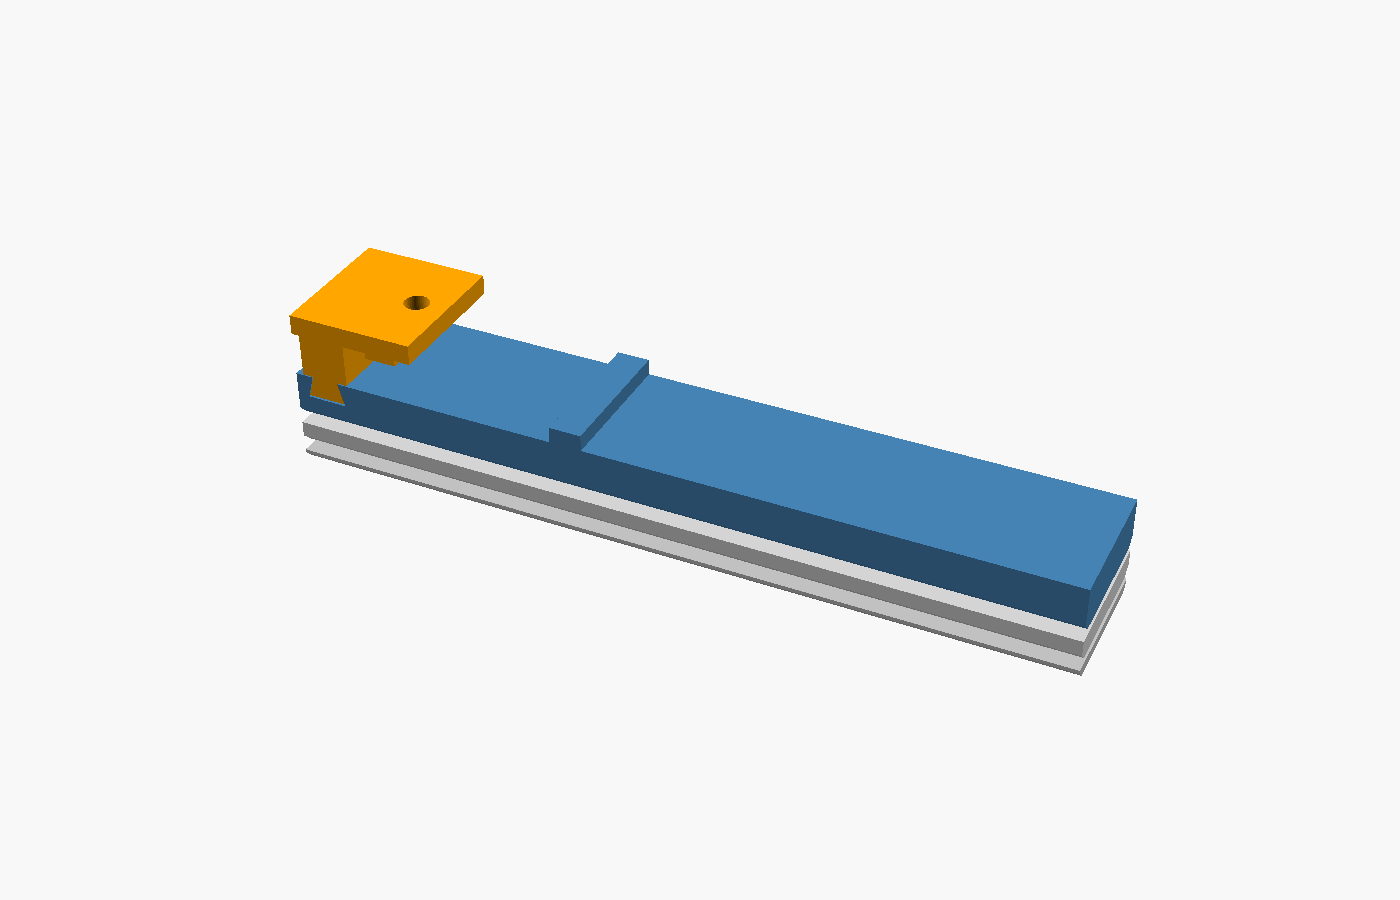
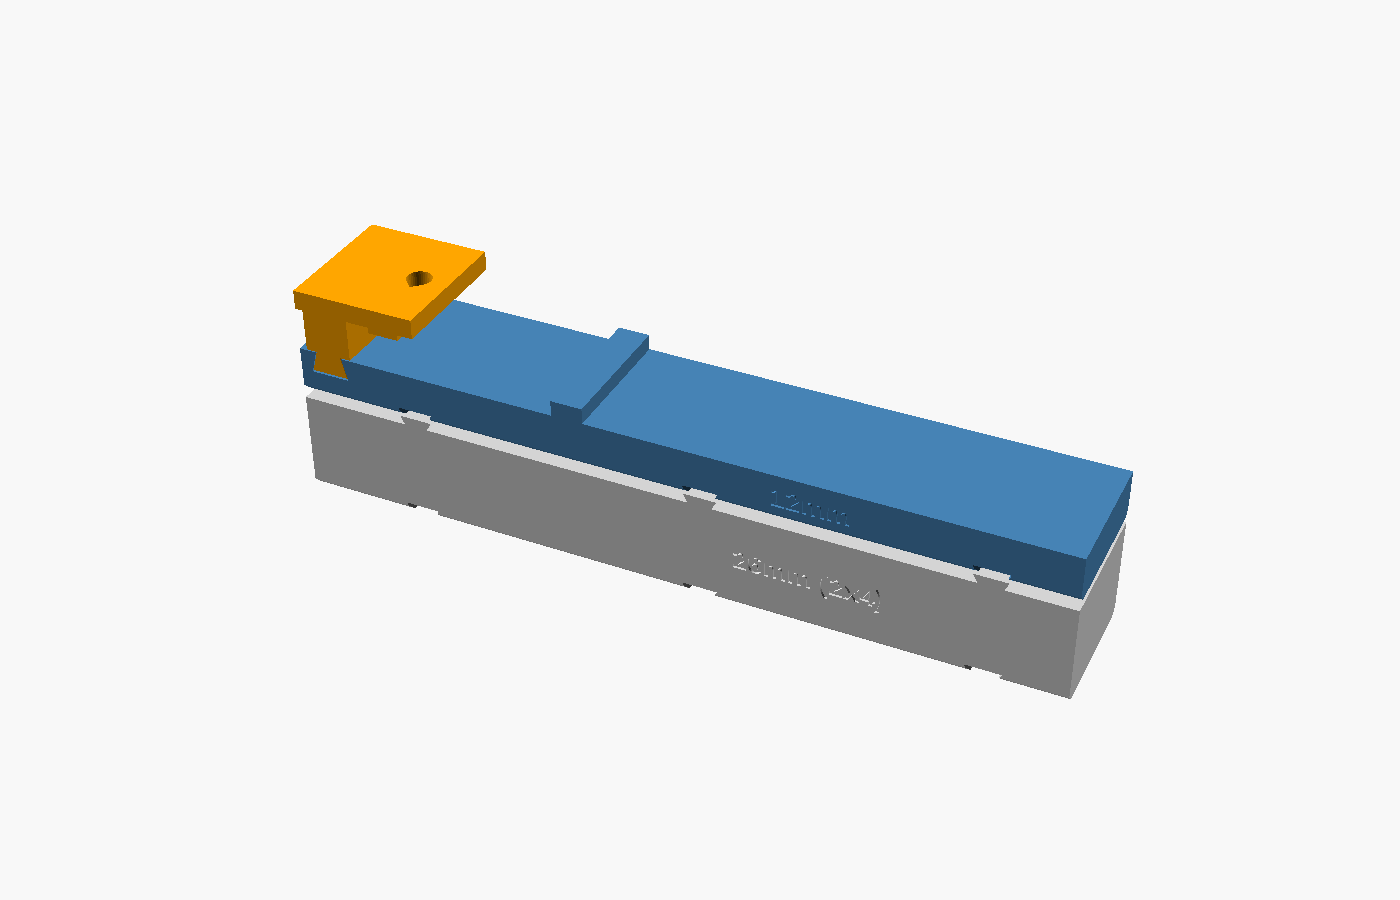
Update to dovetail shim kit version and fix shim labels
Replace the pin-aligned shims with gravity-locking sliding dovetails,
add the 26 mm (2x4) shim, engraved labels, a teardrop M6 hole and
flat shim printing. Fix the ext()/text() typo that dropped the labels
on shims 3 mm and thicker, and restore indentation.

Claude-Session: https://claude.ai/code/session_0164vZm4HeXjP3Tr6d3vAAi1

Changed region(s): [[0.1843, 0.2489, 0.8293, 0.7778]]

diff --git a/README.md b/README.md
@@ -16,8 +16,11 @@ The current design is a parametric OpenSCAD model built for the **Makita 183 mm 
 - **Top bridge**: clamps through the rail's top T-slot with a drop-in M6 T-bolt. It joins
   the base with a blind sliding dovetail on a 16 mm side wing. A 3 mm rear stop sets it flush,
   so the support can go on anywhere along the rail without sliding on from the end.
-- **Stackable shims** (1, 2, 3 and 6 mm): these attach under the base with alignment pins
-  to match other material thicknesses.
+- **Stackable shim kit** (1, 2, 3, 6 and 26 mm): shims attach under the base with three
+  horizontal sliding dovetails, so they stay on when you lift the rail. The 12 mm base plus
+  the 26 mm shim gives 38 mm, the thickness of a 2x4. Each shim has its thickness engraved on it.
+- **Support-free printing**: the base and bridge print on their rear faces, with a teardrop
+  M6 hole. The shims print flat.
 
 ## Usage
 
